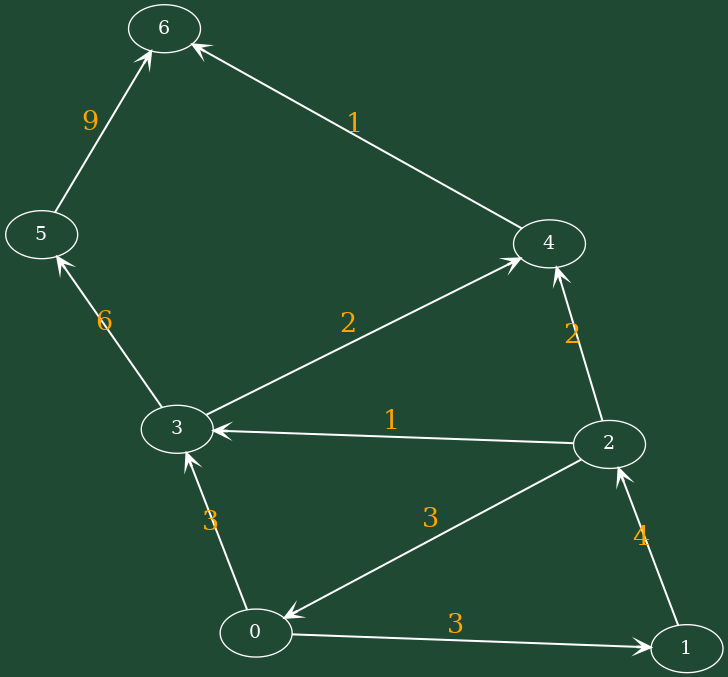
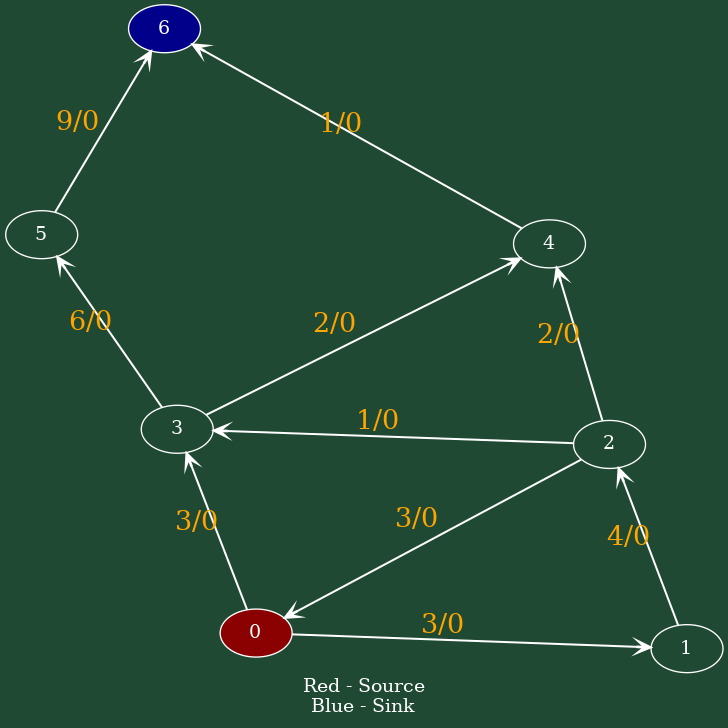
Error corrected

diff --git a/Edmond-Karp-Visualisation/Edmond_Karp.py b/Edmond-Karp-Visualisation/Edmond_Karp.py
@@ -17,7 +17,7 @@ def max_flow(C, s, t, hide0cp=False):
         flow=0
         while path != None:
             flow = min(C[u][v] - F[u][v] for u,v in path)
-            Edmond_Karp_Flow.makeGraph(C, F, s, t, fGraphName, hide0cp,path)
+            Edmond_Karp_Flow.makeGraph(C, F,s, t, fGraphName, path,hide0cp)
             Edmond_Karp_Residual.makeGraph(C, F, path, flow, s, t, rGraphName)
             for u,v in path:
                 F[u][v] += flow
@@ -26,7 +26,7 @@ def max_flow(C, s, t, hide0cp=False):
             fGraphName = "imgs/flow/flowGraph" +str(index) + ".png"
             rGraphName = "imgs/resi/residualGraph" +str(index) + ".png"
             path = bfs(C, F, s, t)
-        Edmond_Karp_Flow.makeGraph(C, F, s, t, fGraphName, hide0cp, False, True,path)
+        Edmond_Karp_Flow.makeGraph(C, F, s, t, fGraphName, path,hide0cp, False, True)
         Edmond_Karp_Residual.makeGraph(C, F, path, flow, s, t, rGraphName)
         return sum(F[s][i] for i in range(n))
 

diff --git a/Edmond-Karp-Visualisation/start.py b/Edmond-Karp-Visualisation/start.py
@@ -69,7 +69,7 @@ def openInp():
     
 
     F = [[0] * len(C) for i in range(len(C))]
-    Edmond_Karp_Flow.makeGraph(C, F, 0, (len(C)-1), 'imgs/inp_grp.png', True, True)
+    Edmond_Karp_Flow.makeGraph(C, F, 0, (len(C)-1), 'imgs/inp_grp.png', [],True, True)
     
     DimHeight=int(screen_height*0.60556)           #FIXME: change this. Use screen info.    # resize forcing this to be image height, keeping aspect ratio (nearly) the same
     imgResIm = (PIL.Image.open('imgs/inp_grp.png'))

diff --git a/Edmond-Karp-Visualisation/Edmond_Karp_Flow.py b/Edmond-Karp-Visualisation/Edmond_Karp_Flow.py
@@ -1,6 +1,6 @@
 import pydot
 
-def makeGraph(C, F, s, t, fGraphName, hide0cp=False, initdisp=False, lastStg=False,path=[]):
+def makeGraph(C, F, s, t, fGraphName,path=[], hide0cp=False, initdisp=False, lastStg=False):
     n = len(C)  
     if lastStg:
         graph = pydot.Dot("my_graph", graph_type="digraph", bgcolor="#204934",fontcolor="white", label="Red - Source, Blue - Sink\nRed edges form min-cut", sep=3, nodesep=0.9)
